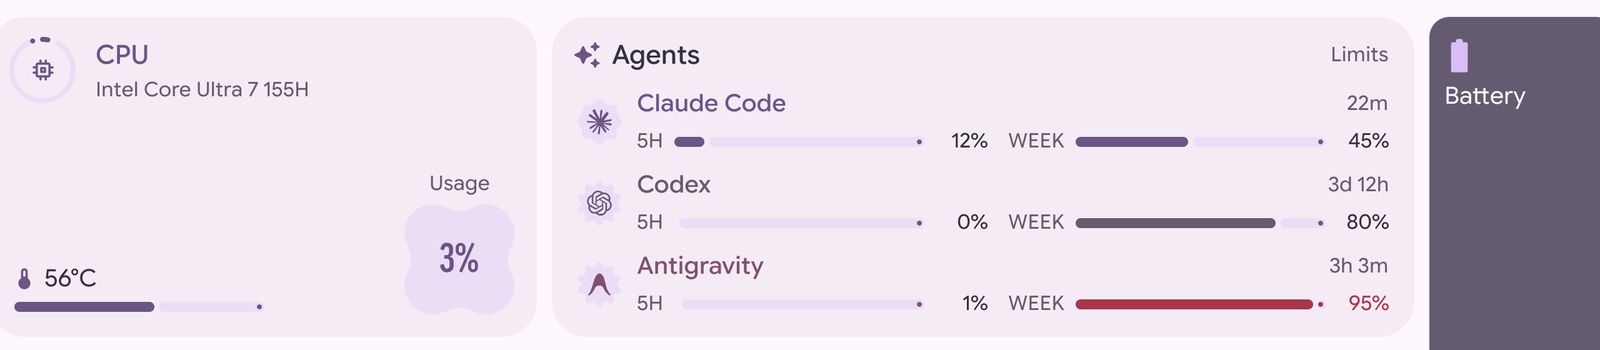
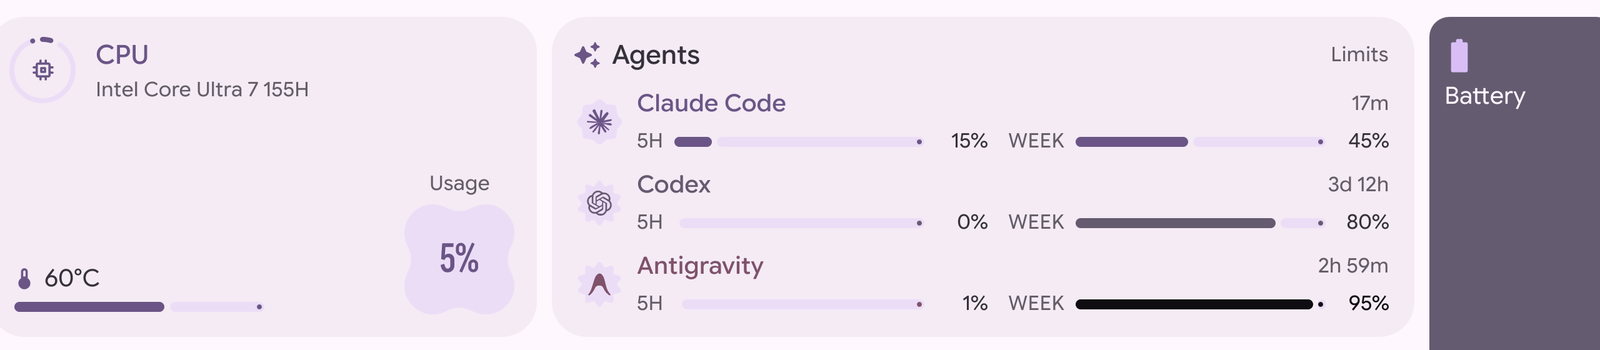
Mark a nearly-spent window dark, not red
Error red says something broke. A week that is 95% gone has not broken, it
just wants looking at, so a window past 90% now takes the palette's maximum
contrast against the card -- near-black on this light theme, and as emphatic
the other way round on a dark one.

diff --git a/components/AgentGauge.qml b/components/AgentGauge.qml
@@ -14,9 +14,12 @@ RowLayout {
     required property color accent
 
     readonly property bool known: value >= 0
-    // A window this close to its limit is worth reading as a warning, the same
-    // way the hero cards flag a hot package
+    // A window this close to its limit is worth reading as a warning. Not the
+    // error red -- nothing is broken, it is just nearly spent -- but the
+    // palette's maximum contrast against the card, which is near-black on a
+    // light theme and stays as emphatic on a dark one.
     readonly property bool critical: known && value >= 0.9
+    readonly property color emphasis: Colours.palette.m3inverseSurface
 
     spacing: Tokens.spacing.small
 
@@ -33,7 +36,7 @@ RowLayout {
         implicitHeight: Tokens.padding.small
         value: root.known ? Math.min(1, root.value) : 0
         indeterminate: !root.known
-        fgColour: root.critical ? Colours.palette.m3error : root.accent
+        fgColour: root.critical ? root.emphasis : root.accent
 
         Behavior on value {
             Anim {}
@@ -48,7 +51,7 @@ RowLayout {
 
         text: root.known ? `${Math.round(root.value * 100)}%` : "–"
         font: Tokens.font.body.builders.small.build()
-        color: root.critical ? Colours.palette.m3error : Colours.palette.m3onSurface
+        color: root.critical ? root.emphasis : Colours.palette.m3onSurface
     }
 
     TextMetrics {

diff --git a/README.md b/README.md
@@ -5,6 +5,10 @@ card in the Caelestia dashboard's Performance tab.
 
 ![the card beside the CPU hero card](docs/performance-tab.png)
 
+A window past 90% goes to the palette's maximum contrast against the card
+rather than the error red — nothing is broken when an agent is nearly spent,
+it just wants looking at.
+
 Every agent bills against the same two rolling windows — a short one and a
 week — so all three get the same pair of gauges, sitting beside a blob that
 swells as the agent gets used up, the way the CPU card's usage blob does.
